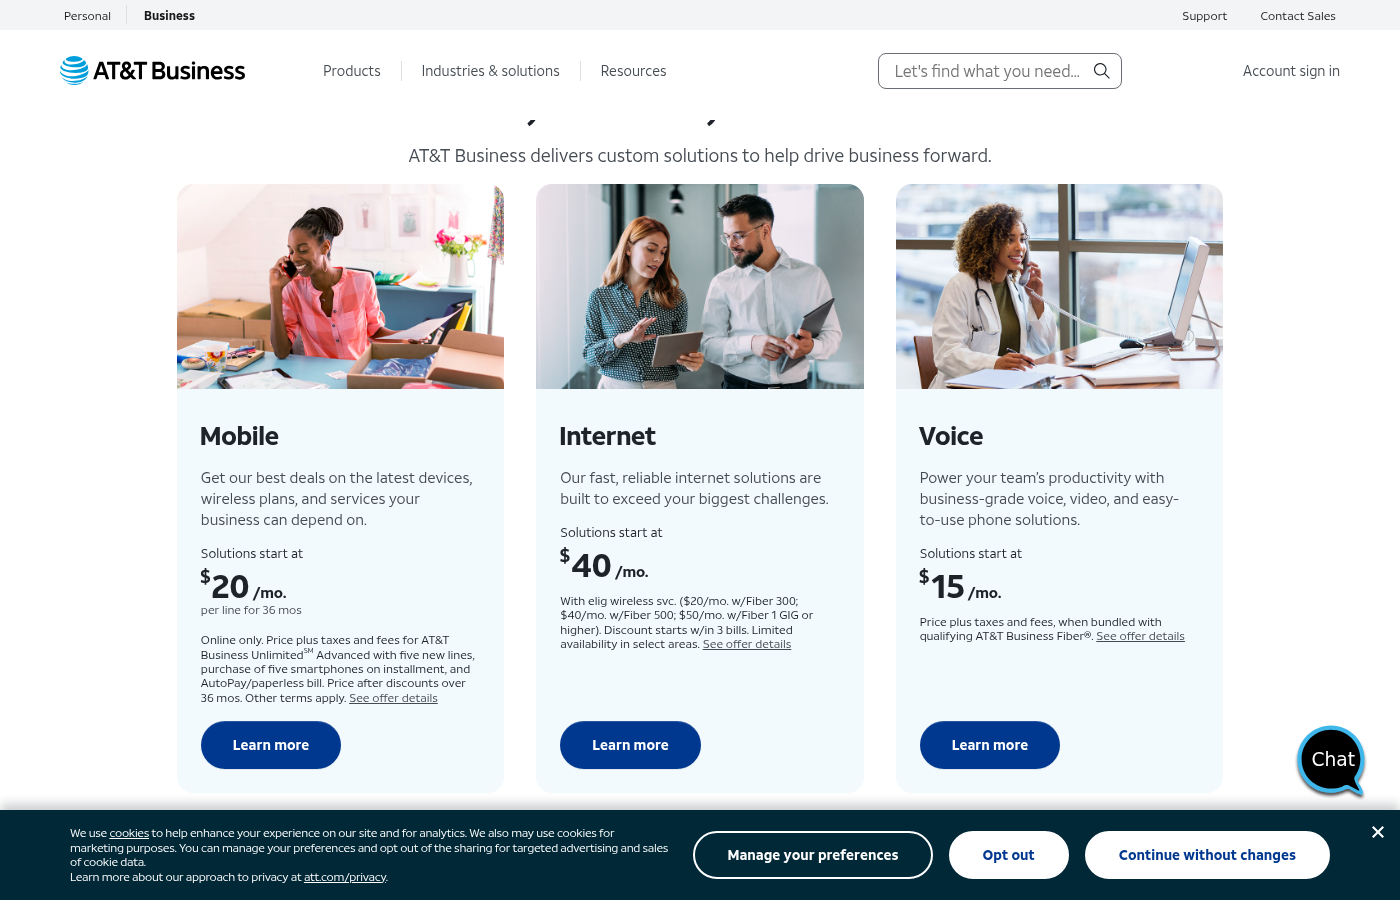
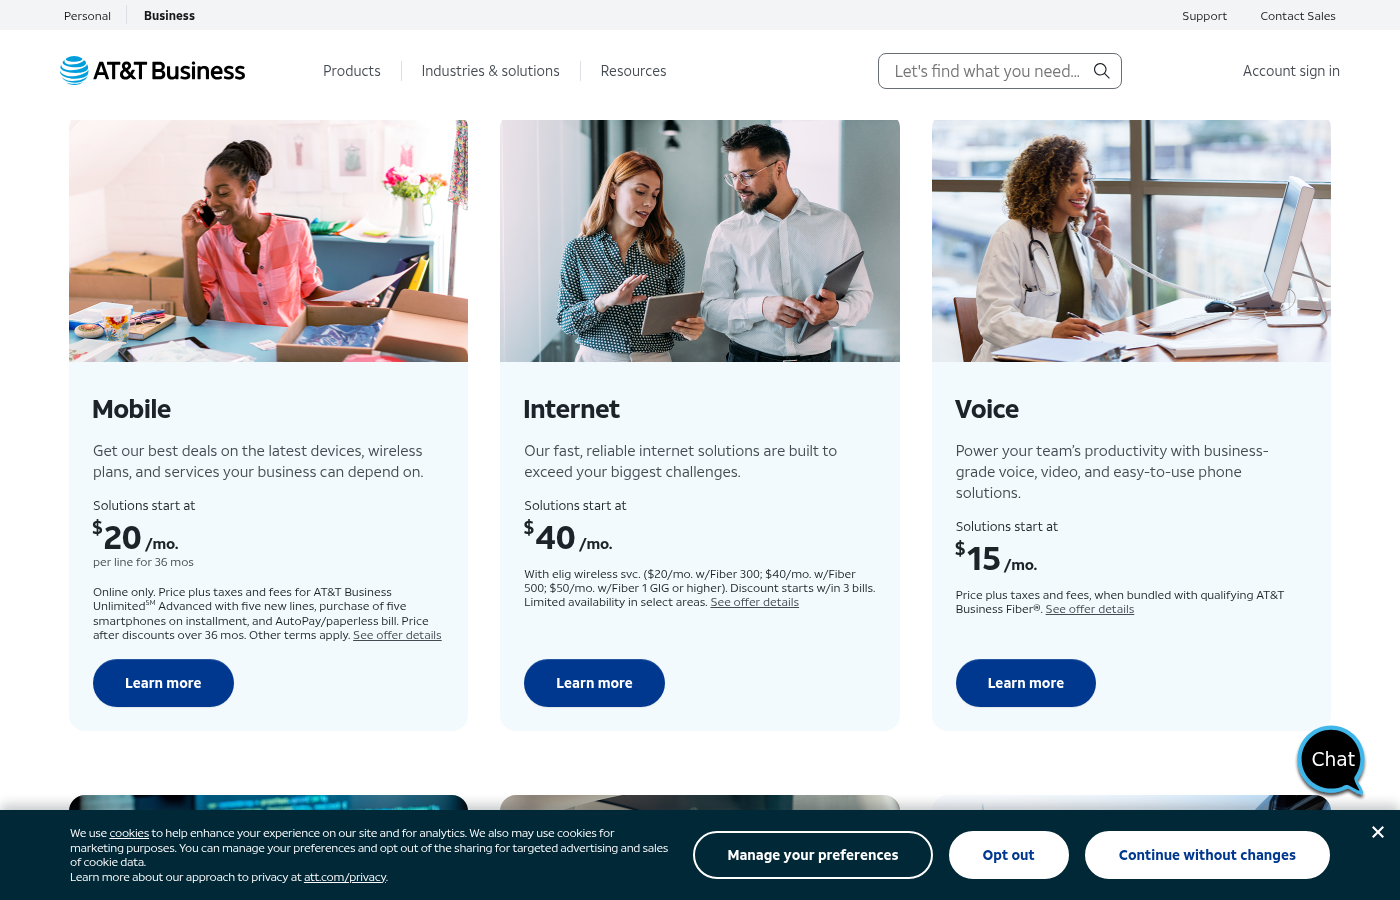
Add 5 blocks
Automated migration updates generated by Experience Modernization Agent.

Changed files (13):
- blocks/cards-feature/cards-feature.js
- blocks/cards-product/cards-product.css
- blocks/cards-product/cards-product.js
- blocks/cards-promo/cards-promo.js
- blocks/cards-testimonial/cards-testimonial.js
- blocks/cards/cards.js
- cards-product-current.png
- cards-product-row2-updated.png
- cards-product-with-pricing.png
- final-cards-product-top.png
- final-cards-promo.png
- source-cards-product-row2.png
- source-cards-product.png

Changed region(s): [[0.0307, 0.1244, 0.9521, 0.9022], [0.8293, 0.8711, 0.9521, 0.9022], [0.0614, 0.4356, 0.1229, 0.4667]]

diff --git a/blocks/cards-product/cards-product.js b/blocks/cards-product/cards-product.js
@@ -1,11 +1,114 @@
+function formatCardBody(body) {
+  const p = body.querySelector('p');
+  if (!p) return;
+
+  const fragment = document.createDocumentFragment();
+
+  // Extract title from <strong>
+  const strong = p.querySelector('strong');
+  if (strong) {
+    const title = document.createElement('h3');
+    title.className = 'cards-product-title';
+    title.textContent = strong.textContent;
+    fragment.append(title);
+  }
+
+  // Extract link
+  const link = p.querySelector('a');
+
+  // Extract disclaimer from <em>
+  const em = p.querySelector('em');
+
+  // Collect text segments between <br> tags (skip title, disclaimer, and link)
+  const segments = [];
+  let current = '';
+  [...p.childNodes].forEach((node) => {
+    if (node.nodeName === 'BR') {
+      if (current.trim()) segments.push(current.trim());
+      current = '';
+    } else if (node === strong || node === link || node === em) {
+      // skip these - handled separately
+    } else if (node.nodeType === Node.TEXT_NODE) {
+      current += node.textContent;
+    }
+  });
+  if (current.trim()) segments.push(current.trim());
+
+  // segments: [description, pricing line]
+  const [description, pricingText] = segments;
+
+  if (description) {
+    const desc = document.createElement('p');
+    desc.className = 'cards-product-desc';
+    desc.textContent = description;
+    fragment.append(desc);
+  }
+
+  if (pricingText) {
+    const priceMatch = pricingText.match(/^(.*?)\$(\d+)(\/mo\.?)(.*)/);
+    if (priceMatch) {
+      const pricingDiv = document.createElement('div');
+      pricingDiv.className = 'cards-product-pricing';
+
+      const label = document.createElement('p');
+      label.className = 'cards-product-price-label';
+      label.textContent = priceMatch[1].trim();
+      pricingDiv.append(label);
+
+      const amount = document.createElement('p');
+      amount.className = 'cards-product-price-amount';
+      amount.innerHTML = `<span class="cards-product-dollar">$</span>${priceMatch[2]}<span class="cards-product-period">${priceMatch[3]}</span>`;
+      pricingDiv.append(amount);
+
+      const extra = priceMatch[4].trim();
+      if (extra) {
+        const sub = document.createElement('p');
+        sub.className = 'cards-product-price-sub';
+        sub.textContent = extra;
+        pricingDiv.append(sub);
+      }
+
+      fragment.append(pricingDiv);
+    } else {
+      // "Custom pricing to fit your business needs" style
+      const custom = document.createElement('p');
+      custom.className = 'cards-product-custom-pricing';
+      custom.textContent = pricingText;
+      fragment.append(custom);
+    }
+  }
+
+  if (em) {
+    const disclaimer = document.createElement('p');
+    disclaimer.className = 'cards-product-disclaimer';
+    disclaimer.textContent = em.textContent;
+    fragment.append(disclaimer);
+  }
+
+  if (link) {
+    const cta = document.createElement('p');
+    cta.className = 'cards-product-cta';
+    const a = link.cloneNode(true);
+    cta.append(a);
+    fragment.append(cta);
+  }
+
+  body.textContent = '';
+  body.append(fragment);
+}
+
 export default function decorate(block) {
   const ul = document.createElement('ul');
   [...block.children].forEach((row) => {
     const li = document.createElement('li');
     while (row.firstElementChild) li.append(row.firstElementChild);
     [...li.children].forEach((div) => {
-      if (div.children.length === 1 && div.querySelector('picture')) div.className = 'cards-product-card-image';
-      else div.className = 'cards-product-card-body';
+      if (div.children.length === 1 && div.querySelector('picture')) {
+        div.className = 'cards-product-card-image';
+      } else {
+        div.className = 'cards-product-card-body';
+        formatCardBody(div);
+      }
     });
     ul.append(li);
   });

diff --git a/blocks/cards-product/cards-product.css b/blocks/cards-product/cards-product.css
@@ -54,33 +54,85 @@
   background-color: #f2fafd;
 }
 
-.cards-product .cards-product-card-body strong {
+/* Card title */
+.cards-product .cards-product-title {
   font-size: 26px;
   font-weight: 400;
   color: var(--text-color);
   margin: 0 0 12px;
-  display: block;
   line-height: 1.2;
 }
 
-.cards-product .cards-product-card-body p {
+/* Card description */
+.cards-product .cards-product-desc {
   font-size: 15px;
   color: #454b52;
   line-height: 1.4;
   margin: 0 0 8px;
 }
 
+/* Pricing section */
+.cards-product .cards-product-pricing {
+  margin: 8px 0;
+}
+
+.cards-product .cards-product-price-label {
+  font-size: 15px;
+  color: #454b52;
+  margin: 0;
+  line-height: 1.4;
+}
+
+.cards-product .cards-product-price-amount {
+  font-size: 48px;
+  font-weight: 700;
+  color: var(--text-color);
+  line-height: 1;
+  margin: 0;
+}
+
+.cards-product .cards-product-dollar {
+  font-size: 20px;
+  vertical-align: super;
+  font-weight: 700;
+}
+
+.cards-product .cards-product-period {
+  font-size: 20px;
+  font-weight: 400;
+}
+
+.cards-product .cards-product-price-sub {
+  font-size: 12px;
+  color: #454b52;
+  margin: 2px 0 0;
+  line-height: 1.3;
+}
+
+/* Custom pricing text (bold) */
+.cards-product .cards-product-custom-pricing {
+  font-size: 15px;
+  font-weight: 700;
+  color: var(--text-color);
+  margin: 8px 0;
+  line-height: 1.4;
+}
+
 /* Disclaimer text */
-.cards-product .cards-product-card-body em {
+.cards-product .cards-product-disclaimer {
   font-size: 12px;
   font-style: normal;
   color: #1d2329;
-  display: block;
-  margin-top: 8px;
+  margin: 8px 0 0;
   line-height: 1.2;
 }
 
 /* CTA link - pill button */
+.cards-product .cards-product-cta {
+  margin-top: auto;
+  padding-top: 16px;
+}
+
 .cards-product .cards-product-card-body a:any-link {
   display: inline-flex;
   align-items: center;
@@ -93,7 +145,6 @@
   border-radius: 28px;
   padding: 0 32px;
   height: 48px;
-  margin-top: auto;
   width: fit-content;
 }
 

diff --git a/blocks/cards-testimonial/cards-testimonial.js b/blocks/cards-testimonial/cards-testimonial.js
@@ -1,5 +1,3 @@
-import { createOptimizedPicture } from '../../scripts/aem.js';
-
 export default function decorate(block) {
   /* change to ul, li */
   const ul = document.createElement('ul');
@@ -11,10 +9,6 @@ export default function decorate(block) {
       else div.className = 'cards-testimonial-card-body';
     });
     ul.append(li);
-  });
-  ul.querySelectorAll('picture > img').forEach((img) => {
-    const optimizedPic = createOptimizedPicture(img.src, img.alt, false, [{ width: '750' }]);
-    img.closest('picture').replaceWith(optimizedPic);
   });
   block.textContent = '';
   block.append(ul);

diff --git a/blocks/cards-feature/cards-feature.js b/blocks/cards-feature/cards-feature.js
@@ -1,5 +1,3 @@
-import { createOptimizedPicture } from '../../scripts/aem.js';
-
 export default function decorate(block) {
   /* change to ul, li */
   const ul = document.createElement('ul');
@@ -11,10 +9,6 @@ export default function decorate(block) {
       else div.className = 'cards-feature-card-body';
     });
     ul.append(li);
-  });
-  ul.querySelectorAll('picture > img').forEach((img) => {
-    const optimizedPic = createOptimizedPicture(img.src, img.alt, false, [{ width: '750' }]);
-    img.closest('picture').replaceWith(optimizedPic);
   });
   block.textContent = '';
   block.append(ul);

diff --git a/blocks/cards-promo/cards-promo.js b/blocks/cards-promo/cards-promo.js
@@ -1,5 +1,3 @@
-import { createOptimizedPicture } from '../../scripts/aem.js';
-
 export default function decorate(block) {
   /* change to ul, li */
   const ul = document.createElement('ul');
@@ -11,10 +9,6 @@ export default function decorate(block) {
       else div.className = 'cards-promo-card-body';
     });
     ul.append(li);
-  });
-  ul.querySelectorAll('picture > img').forEach((img) => {
-    const optimizedPic = createOptimizedPicture(img.src, img.alt, false, [{ width: '750' }]);
-    img.closest('picture').replaceWith(optimizedPic);
   });
   block.textContent = '';
   block.append(ul);

diff --git a/blocks/cards/cards.js b/blocks/cards/cards.js
@@ -1,5 +1,3 @@
-import { createOptimizedPicture } from '../../scripts/aem.js';
-
 export default function decorate(block) {
   /* change to ul, li */
   const ul = document.createElement('ul');
@@ -12,6 +10,5 @@ export default function decorate(block) {
     });
     ul.append(li);
   });
-  ul.querySelectorAll('picture > img').forEach((img) => img.closest('picture').replaceWith(createOptimizedPicture(img.src, img.alt, false, [{ width: '750' }])));
   block.replaceChildren(ul);
 }
